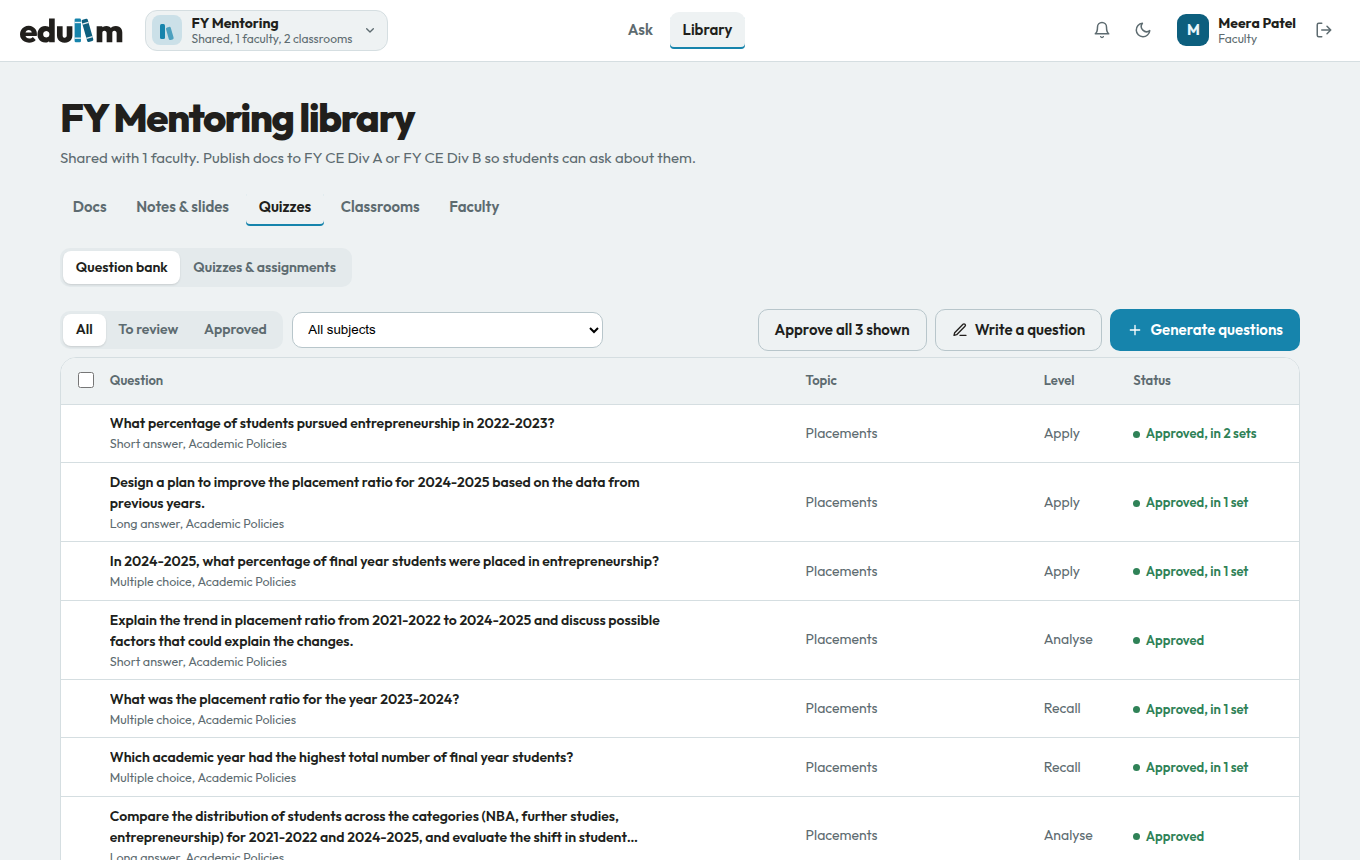
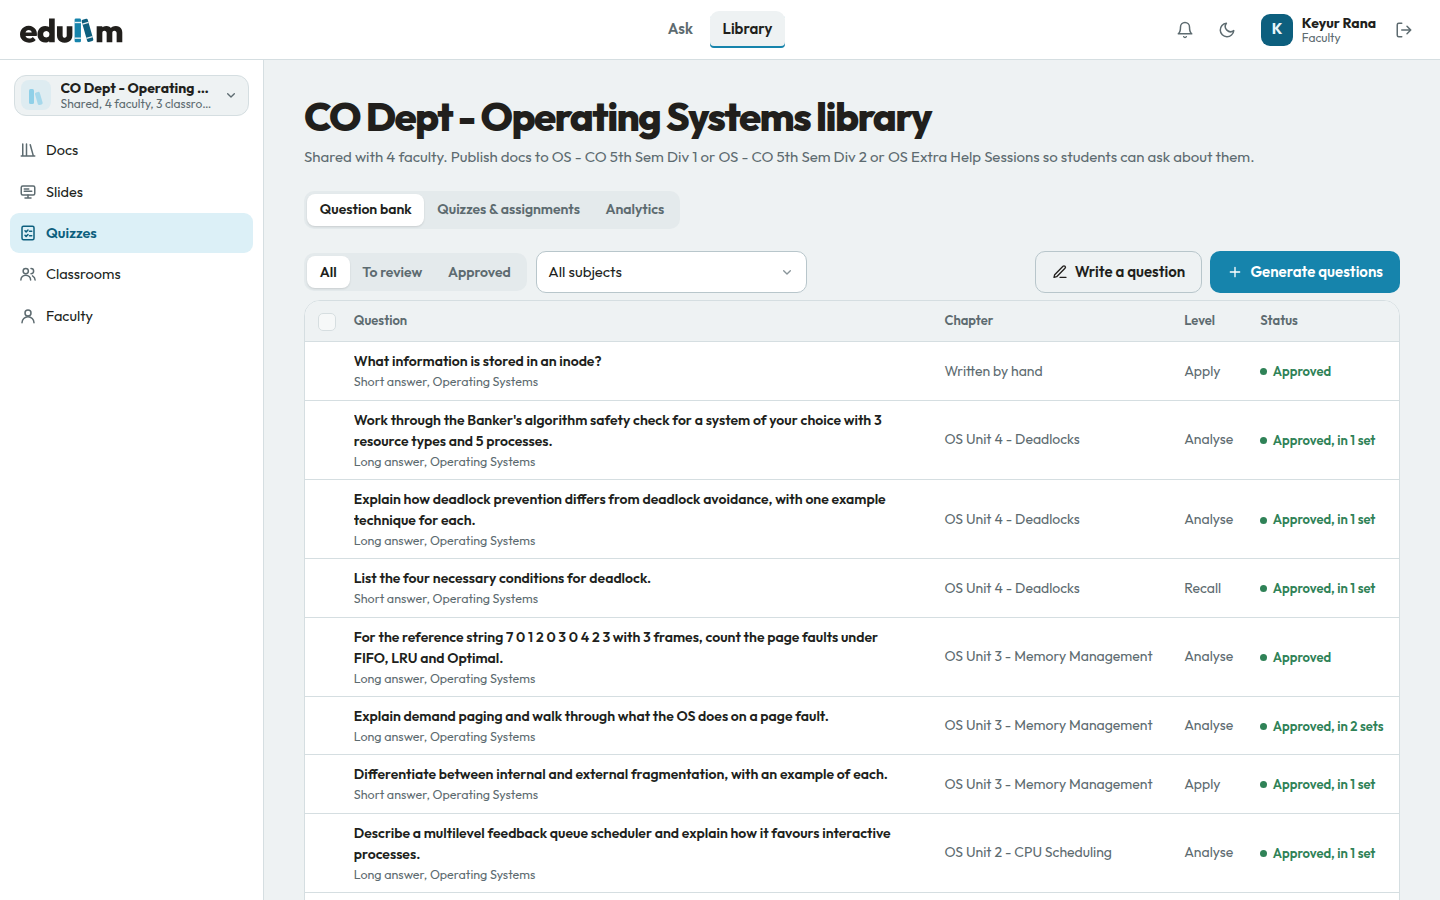
Updates Screen shots and Readme

diff --git a/frontend/src/quizzes/ItemList.jsx b/frontend/src/quizzes/ItemList.jsx
@@ -30,12 +30,13 @@ export default function ItemList({ items, showMeta = false, picks, pickLabel = "
               <ul className={`q-options${onPick ? " is-answering" : ""}`} role={onPick ? "radiogroup" : undefined}>
                 {item.options.map((option, i) => {
                   const classes = [];
-                  if (known && item.correct === i) classes.push("is-correct");
                   if (picked === i) {
                     // Before the answer key is out, a student's set still says whether each pick was right.
+                    const right = known ? item.correct === i : item.is_right === true;
                     const wrong = known ? item.correct !== i : item.is_right === false;
-                    const right = !known && item.is_right === true;
-                    classes.push(wrong ? "is-wrong" : right ? "is-correct" : "is-picked");
+                    classes.push(right ? "is-correct" : wrong ? "is-wrong" : "is-picked");
+                  } else if (known && item.correct === i) {
+                    classes.push("is-correct");
                   }
                   const body = (
                     <>

diff --git a/README.md b/README.md
@@ -7,41 +7,81 @@ RAG over institute documents, with access scoped by workspaces and classrooms: r
 ### Everyone
 - Sign in with a magic link sent to your institute email; faculty or student is worked out from the address.
 - Ask questions about your documents in a chat; answers stream in with their sources, and a chart when you ask for numbers.
+- The desk on the right lists the docs the conversation used; hover an answer to see which ones it read.
 - Search everything you can read, or just one workspace / classroom (pick it from the switcher or type `@name`).
 - Chat history: rename, pin, delete, and edit an earlier question to ask again.
 - Get a notice when a document you can read is updated or removed.
 - Light and dark themes.
 
+<table><tr>
+<td width="50%"><img src="mds/screenshots/ask-chart.png" alt="An answer with a chart and its source"><br><sub>An answer with a chart and its source</sub></td>
+<td width="50%"><img src="mds/screenshots/ask-student.png" alt="A student asking within one classroom"><br><sub>A student asking within one classroom</sub></td>
+</tr></table>
+
+<table><tr>
+<td width="50%"><img src="mds/screenshots/ask-mention.png" alt="Type @ to pick which shelf to search"><br><sub>Type @ to pick which shelf to search</sub></td>
+<td width="50%"><img src="mds/screenshots/notices.png" alt="Notices when docs change"><br><sub>Notices when docs change</sub></td>
+</tr></table>
+
 ### Faculty: library and classrooms
 - Institute library (for everyone or faculty only), a personal workspace, and shared workspaces with other faculty.
 - Upload PDFs and other docs; they are indexed automatically with a progress bar. Rename, change access, remove, see history.
+- Every document is a book on a shelf, grouped by who can read it; or switch to a list.
 - Classrooms inside a shared workspace: join codes, add students by email/CSV, archive and restore.
 - Publish documents to chosen classrooms; students only ever see what is published to them.
 
-<img src="mds/screenshots/library.png" alt="Institute library" width="720">
+<table><tr>
+<td width="50%"><img src="mds/screenshots/library-shelves.png" alt="A workspace library: shelves, recent changes"><br><sub>A workspace library: shelves, recent changes</sub></td>
+<td width="50%"><img src="mds/screenshots/classrooms.png" alt="Classrooms with join codes"><br><sub>Classrooms with join codes</sub></td>
+</tr></table>
 
 ### Faculty: slide decks
-- The AI drafts a `.pptx` lecture deck from chosen docs, citing them.
-- Edit it, ask for changes in words ("add a slide on paging"), redraft when sources change, download or publish.
+- The AI drafts a `.pptx` lecture deck from chosen docs, citing them, with speaker notes.
+- Edit slides by hand, or tell the AI what to change ("add a slide on paging", "more detailed") and review it before it replaces anything.
+- Redraft when the sources change; download the `.pptx` or publish it to the workspace.
 - Type `/ppt` in the chat box to start one.
+
+<table><tr>
+<td width="50%"><img src="mds/screenshots/slides-editor.png" alt="The slide editor"><br><sub>The slide editor</sub></td>
+<td width="50%"><img src="mds/screenshots/slides-ai.png" alt="Edit with AI"><br><sub>Edit with AI</sub></td>
+</tr></table>
 
 ### Faculty: question bank and quizzes
 - AI-written or hand-written questions (MCQ, short, long), reviewed and approved before use; near-duplicates are dropped.
-
-<img src="mds/screenshots/question-bank.png" alt="Question bank" width="720">
-
 - Quizzes where every student gets a different set, and assignments that never repeat questions across classrooms in a term.
 - Type `/quiz` in the chat box to write questions and give a classroom a quiz in one go.
-- Results: quiz scores, who handed in assignments (PDF, or ticked off for paper copies), and class analytics — averages, completion, weakest chapters, hardest questions.
 
-<img src="mds/screenshots/quiz-sets.png" alt="A quiz, one set per student" width="720">
+<table><tr>
+<td width="50%"><img src="mds/screenshots/question-bank.png" alt="Question bank"><br><sub>Question bank</sub></td>
+<td width="50%"><img src="mds/screenshots/ask-slash.png" alt="/ppt and /quiz from the chat box"><br><sub>/ppt and /quiz from the chat box</sub></td>
+</tr></table>
+
+- Results: each student's set and answers, quiz scores, who handed in assignments (PDF, or ticked off for paper copies).
+- Class analytics: averages, completion, late hand-ins, weakest chapters, most missed questions.
+
+<table><tr>
+<td width="50%"><img src="mds/screenshots/quiz-sets.png" alt="A quiz: one set per student, with their answers"><br><sub>A quiz: one set per student, with their answers</sub></td>
+<td width="50%"><img src="mds/screenshots/analytics.png" alt="Class analytics"><br><sub>Class analytics</sub></td>
+</tr></table>
 
 ### Students
 - Join a classroom with its code; read its docs as a shelf or a list, PDFs open in the built-in viewer.
-- Take quizzes in the app (graded on submit; answers shown after the due date).
+- Take quizzes in the app; the mark shows on submit, and the correct answers after the due date.
 - Hand in assignments as a PDF; late hand-ins are allowed and marked late.
 
-<img src="mds/screenshots/student-quiz.png" alt="A student's own quiz set, without answers" width="720">
+<table><tr>
+<td width="50%"><img src="mds/screenshots/student-docs.png" alt="A classroom's docs"><br><sub>A classroom's docs</sub></td>
+<td width="50%"><img src="mds/screenshots/student-quiz.png" alt="Taking a quiz"><br><sub>Taking a quiz</sub></td>
+</tr></table>
+
+<table><tr>
+<td width="50%"><img src="mds/screenshots/student-results.png" alt="Marks after submitting"><br><sub>Marks after submitting</sub></td>
+<td width="50%"><img src="mds/screenshots/student-assignments.png" alt="Assignments and hand-ins"><br><sub>Assignments and hand-ins</sub></td>
+</tr></table>
+
+### Dark theme
+
+<img src="mds/screenshots/dark.png" alt="Library in the dark theme" width="720">
 
 ## Quick Start
 
